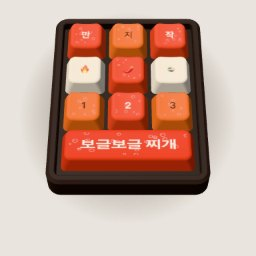
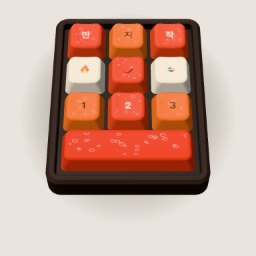
fix: tabs reopen their last toy, plain space bar, no hearts in missions
- A tab tap reopens the toy last played in that tab, free (no ad, no free pick)
- Keyboard: blank space bar; one-per-cap patterns (blush, swirl) drawn once on
  the wide cap, no typewriter ring on it; space bar legend canvas sized to the cap
- SDK missions: "+ 하트 N개" removed from reward chips, the hearts-only 30-minute
  mission hidden (paying it in points needs a server economy change)
- Keyboard thumbnails re-rendered

Changed region(s): [[0.3125, 0.5312, 0.6875, 0.5938]]

diff --git a/app/src/main.ts b/app/src/main.ts
@@ -371,6 +371,8 @@ let currentId = '';
 let category: Category = settings.get().lastCategory;
 
 let routeSeq = 0;
+/** the next route is a tab tap back to that tab's last toy (free) */
+let tabEntry = false;
 let routedOnce = false;
 async function route(): Promise<void> {
   const seq = ++routeSeq; // a later switch makes an earlier, still-loading one a no-op
@@ -381,7 +383,8 @@ async function route(): Promise<void> {
   }
   const validPreset = !!presetId && Object.hasOwn(KEY_PRESET_INFO, presetId) && isKeyPresetEnabled(presetId);
   const kind = kindOf(id, validPreset ? presetId : undefined);
-  const launch = !routedOnce; // the toy the app opens on: free, not counted
+  const launch = !routedOnce || tabEntry; // the toy the app opens on, or a tab's last toy: free, not counted
+  tabEntry = false;
   if (!launch && gateOn && kind && access(gateNow(), kind) === 'locked') {
     // reached without the dock (a link, a stale hash): never an ad here (policy: no full-screen ad the user did not ask for),
     // show the toy that is open instead
@@ -615,15 +618,16 @@ function syncDock(scroll: boolean): void {
   const ric = (window as Window & { requestIdleCallback?: (cb: () => void, o?: { timeout: number }) => number }).requestIdleCallback;
   if (ric) ric(warm, { timeout: 3000 }); else setTimeout(warm, 1500);
 }
-// category switch opens that category's last toy at once — unless that toy needs an ad: then the tab only shows the other list
+// category switch opens that category's last toy at once: then the tab only shows the other list
 // (no ad popup for a tab tap; picking a card there asks as usual)
 dock.querySelectorAll<HTMLButtonElement>('[data-category]').forEach((b) => b.addEventListener('click', () => {
   const c = b.dataset.category as Category;
   // a tab opens the toy last used there (owner, 2026-11-20 — opening the tab's first toy was tried and dropped)
   const hash = c === 'keyboard' ? `#/keyboard/${settings.get().keyPreset}` : c === 'squash' ? '#/' + squashChoice() : '#/' + fidgetChoice();
-  const k = kindOfHash(hash);
-  if (gateOn && k && access(gateNow(), k) === 'locked') { if (category !== c) { category = c; syncDock(true); } return; }
-  request(hash);
+  // it was already opened and played there, so coming back to it is free (owner, 2026-11-20: each tab shows its last toy):
+  // no ad, no free pick used
+  tabEntry = true;
+  go(hash);
 }));
 // arrow keys move within the radio groups (one tab stop each)
 for (const group of [toyList, dock.querySelector<HTMLElement>('.cat-seg')!]) {

diff --git a/app/src/sdk/skin.ts b/app/src/sdk/skin.ts
@@ -28,4 +28,38 @@ export function installSdkSkin(): void {
   const script = document.createElement('script');
   script.textContent = js.replace(/__ASSET_([a-z0-9_]+)__/g, (_, n: string) => assetUrl(n));
   document.head.append(script);
+  watchHearts();
+}
+
+/**
+ * 만지작 has no hearts (owner, 2026-11-20: "하트 필요 없음, 포인트로"). The reward kinds and amounts come from the server, so the app
+ * cannot turn a heart reward into points; it only shows what is real: "+ 하트 N개" is cut from a reward chip (the points stay), and a
+ * mission that pays hearts only (오늘 30분 플레이) is hidden. Paying points for it is a server (economy config) change.
+ */
+const HEART_PART = /\s*\+\s*하트\s*\d+\s*개/g;
+const HEART_ONLY = /^\s*하트\s*\d+\s*개\s*$/;
+function stripHearts(root: ParentNode): void {
+  const walker = document.createTreeWalker(root as Node, NodeFilter.SHOW_TEXT);
+  const hide: Element[] = [];
+  for (let n = walker.nextNode(); n; n = walker.nextNode()) {
+    const t = n.nodeValue ?? '';
+    if (!t.includes('하트')) continue;
+    if (HEART_ONLY.test(t)) {
+      const row = (n.parentElement as Element | null)?.closest('.gf-rx-row, .sk-rx-card, li');
+      if (row) hide.push(row);
+    } else if (HEART_PART.test(t)) n.nodeValue = t.replace(HEART_PART, '');
+    HEART_PART.lastIndex = 0;
+  }
+  for (const row of hide) (row as HTMLElement).style.display = 'none';
+}
+let watching = false;
+function watchHearts(): void {
+  if (watching) return;
+  watching = true;
+  let queued = false;
+  new MutationObserver(() => {
+    if (queued) return;
+    queued = true;
+    requestAnimationFrame(() => { queued = false; stripHearts(document.body); });
+  }).observe(document.body, { childList: true, subtree: true, characterData: true });
 }

diff --git a/app/src/toys/keyboard/keycap.ts b/app/src/toys/keyboard/keycap.ts
@@ -421,7 +421,8 @@ function drawDeco(g: CanvasRenderingContext2D, size: number, d: CapDeco) {
         g.fill();
       }
       break;
-    case 'ring': // typewriter key: a silver ring round the face
+    case 'ring': // typewriter key: a silver ring round the face (not on the long space bar — a typewriter's is a plain bar)
+      if (d.aspect > 1.5) break;
       g.strokeStyle = d.ink;
       g.lineWidth = 16;
       g.beginPath();
@@ -468,12 +469,21 @@ export function createLegendTexture(
   canvas.height = size;
   const g = canvas.getContext('2d')!;
   if (o.deco) {
-    // the pattern is drawn per square tile across the wide canvas (no squeeze needed: the canvas has the cap's proportions)
-    for (let t = 0; t < Math.ceil(wide); t++) {
+    if (['blush', 'swirl', 'ring'].includes(o.deco.pattern)) {
+      // one-per-cap patterns (a blush, a piped swirl, a typewriter ring) are drawn once across the whole wide cap — tiled they
+      // repeated three times on the space bar (owner, 2026-11-20)
       g.save();
-      g.translate(t * size, 0);
-      drawDeco(g, size, { ...o.deco, aspect: 1, seed: o.deco.seed + t * 17 });
+      g.scale(wide, 1);
+      drawDeco(g, size, { ...o.deco, aspect: wide });
       g.restore();
+    } else {
+      // scattered patterns are drawn per square tile across the wide canvas (the canvas has the cap's proportions)
+      for (let t = 0; t < Math.ceil(wide); t++) {
+        g.save();
+        g.translate(t * size, 0);
+        drawDeco(g, size, { ...o.deco, aspect: 1, seed: o.deco.seed + t * 17 });
+        g.restore();
+      }
     }
   }
   const px = Math.round(size * (o.sizeRatio ?? 0.42));

diff --git a/app/src/toys/keyboard/colors.ts b/app/src/toys/keyboard/colors.ts
@@ -22,7 +22,8 @@ export interface KeyTheme {
   plate: number;
   switches: number;
 }
-const row = (icons: [string, string, string], space: string) => ['만', '지', '작', ...icons, '1', '2', '3', space];
+// the space bar is left blank (owner, 2026-11-20: "스페이스바 글씨 없는 게 낫겠다"); `space` is kept as the design's name
+const row = (icons: [string, string, string], _space: string) => ['만', '지', '작', ...icons, '1', '2', '3', ''];
 
 /** Individually composed keysets: placement, contrast, materials and case are designed together. */
 export const KEYBOARD_COLORS: Record<KeyPresetId, Colorway> = {

diff --git a/app/src/toys/keyboard/visual.ts b/app/src/toys/keyboard/visual.ts
@@ -136,7 +136,7 @@ export function buildKeyboardVisual(renderer: THREE.WebGLRenderer): KeyboardVisu
       addKey(cap1u, (c - 1) * U, (r - 1.5) * U, LEGENDS[i], CAP / 2);
     }
   const spaceW = COLS * U - (U - CAP);
-  addKey(createKeycapGeometry({ width: spaceW, depth: CAP, height: CAP_H }), 0, 1.5 * U, '스페이스', spaceW / 2, spaceW / CAP);
+  addKey(createKeycapGeometry({ width: spaceW, depth: CAP, height: CAP_H }), 0, 1.5 * U, '', spaceW / 2, spaceW / CAP); // a blank space bar
 
   type StyleId = keyof typeof STYLES;
   let style: StyleId = 'pebble';

diff --git a/app/src/thumbsVersion.ts b/app/src/thumbsVersion.ts
@@ -1,2 +1,2 @@
 // written by scripts/make-thumbs.mjs on every run: cache-busts the menu thumbnails (main.ts thumbSrc)
-export const THUMBS_VERSION = "mwod5xkx";
+export const THUMBS_VERSION = "mwodfiz7";
